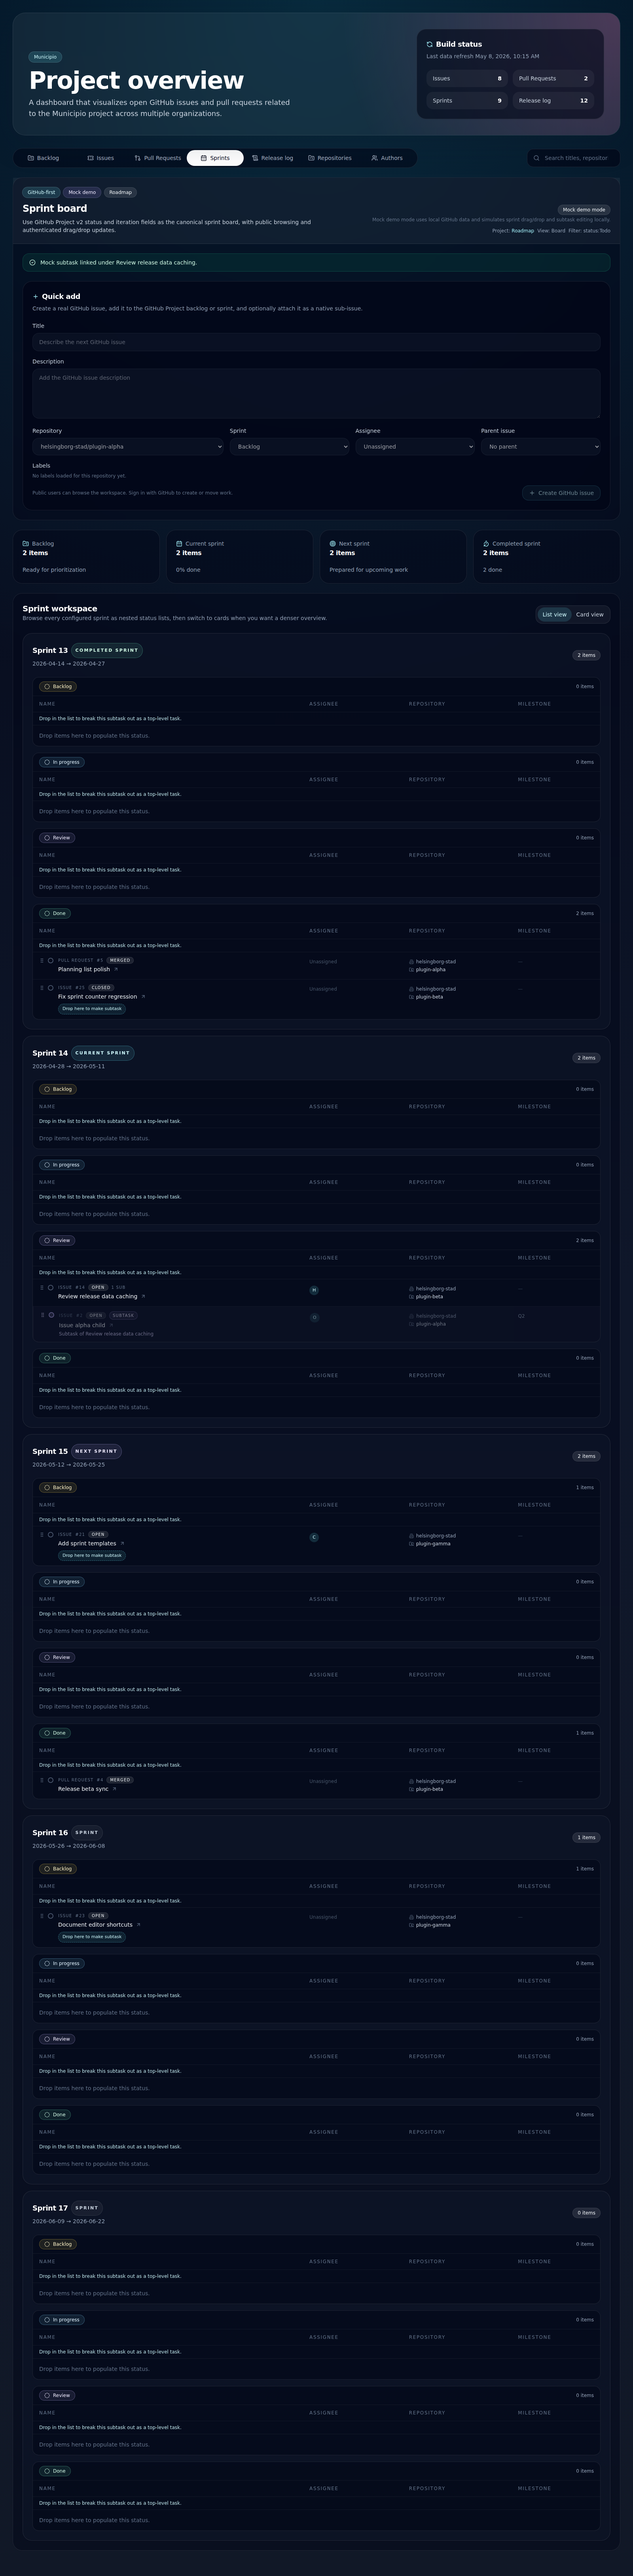
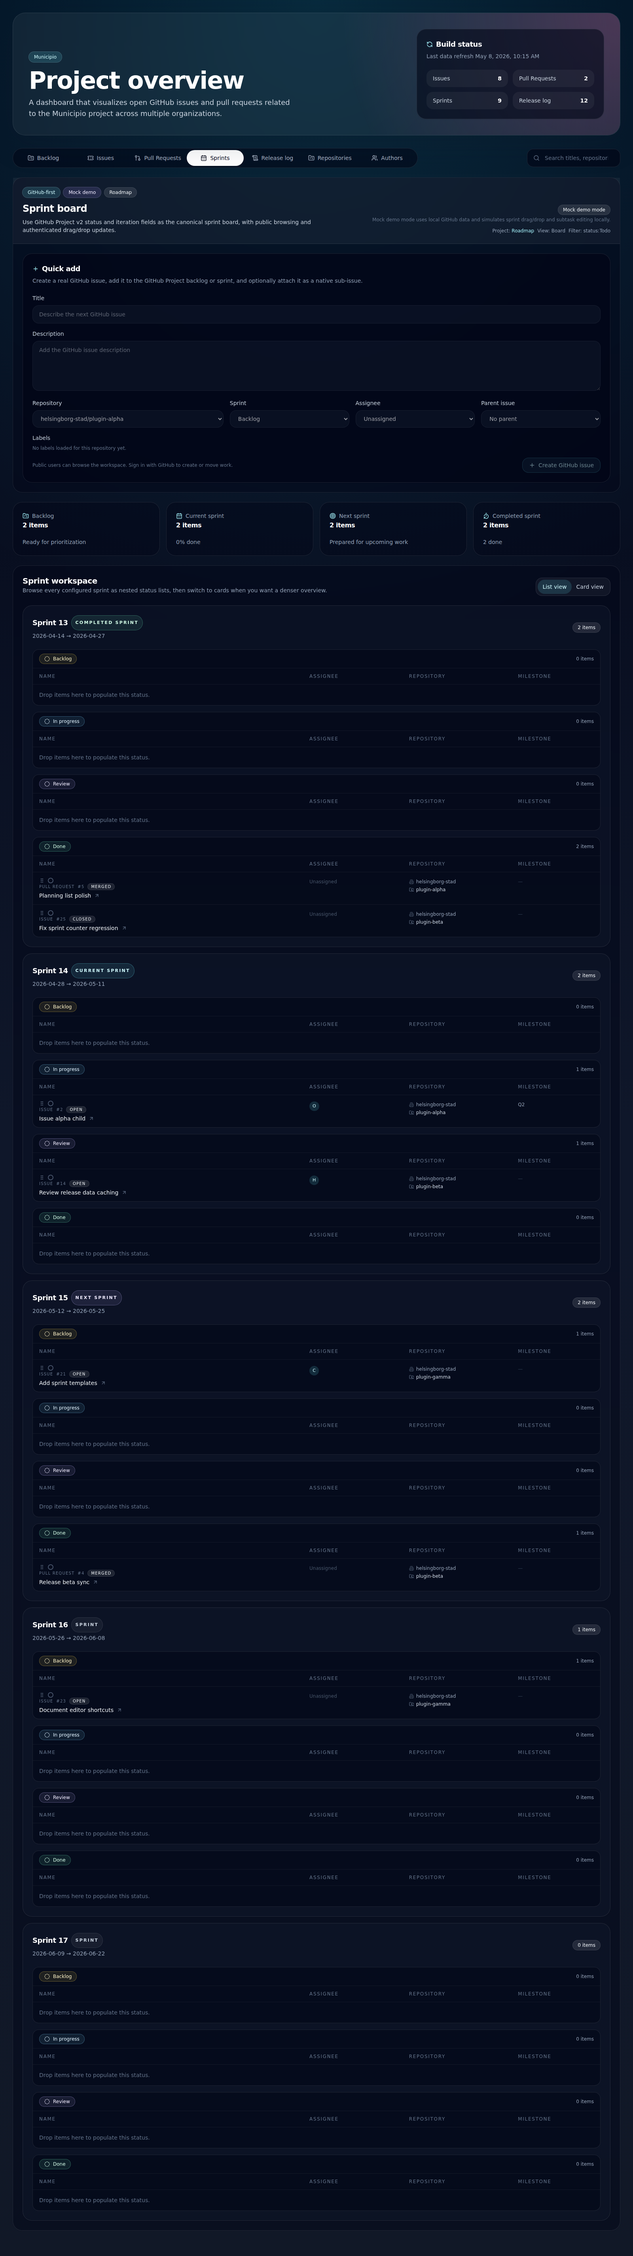
fix(planning): indent sprint subtasks
Agent-Logs-Url: https://github.com/helsingborg-stad/municipio-project-aggregator/sessions/198ca7bd-6277-4bfa-8e82-28aaceb73a7e

diff --git a/src/components/planning/PlanningWorkspace.jsx b/src/components/planning/PlanningWorkspace.jsx
@@ -31,6 +31,20 @@ import {
 } from '@/lib/planning';
 
 const sprintListGridClassName = 'grid grid-cols-[minmax(0,2.8fr)_minmax(7rem,1fr)_minmax(10rem,1.1fr)_minmax(8rem,0.8fr)] gap-3';
+const maxSprintListIndentDepth = 3;
+const sprintListIndentPerLevelRem = 1.5;
+const sprintListConnectorVerticalInsetRem = 0.5;
+const sprintListConnectorBranchTopRem = 1.25;
+const sprintListConnectorHorizontalOffsetRem = sprintListIndentPerLevelRem / 2;
+const sprintListConnectorArmLengthRem = sprintListIndentPerLevelRem - sprintListConnectorHorizontalOffsetRem;
+const sprintListConnectorColorClassName = 'bg-violet-300/35';
+const sprintListConnectorStyles = {
+  left: `${sprintListConnectorHorizontalOffsetRem}rem`,
+  top: '0rem',
+  branchTop: `${sprintListConnectorBranchTopRem}rem`,
+  width: `${sprintListConnectorArmLengthRem}rem`,
+  bottom: `${sprintListConnectorVerticalInsetRem}rem`,
+};
 
 /**
  * Renders the GitHub-first backlog and sprint planning workspace.
@@ -1172,6 +1186,7 @@ function SprintNestedListRow({
     ? 'border-l-2 border-violet-300/40 bg-violet-300/[0.06]'
     : '';
   const currentParentTitle = currentParent?.title || 'parent task';
+  const nestedOffset = depth > 0 ? `${Math.min(depth, maxSprintListIndentDepth) * sprintListIndentPerLevelRem}rem` : '0rem';
 
   return (
     <>
@@ -1187,46 +1202,70 @@ function SprintNestedListRow({
         <div className={`${sprintListGridClassName} px-4 py-3`}>
           <div className="min-w-0">
             <div className="flex min-w-0 items-start gap-3">
-              <div className={`flex items-center gap-2 pt-0.5 ${depth > 0 ? 'text-violet-200' : 'text-slate-500'}`}>
-                <span aria-label="Drag handle">
-                  <GripVertical className="h-3.5 w-3.5" />
-                </span>
-                <div className={`h-3.5 w-3.5 rounded-full border-2 ${depth > 0 ? 'border-violet-300/80 bg-violet-300/20' : 'border-slate-500/70'}`} />
-              </div>
               <div className="min-w-0 flex-1">
-                <div className="flex min-w-0 flex-wrap items-center gap-2 text-[10px] uppercase tracking-[0.12em] text-slate-500">
-                  <span>{item.type}</span>
-                  {item.number ? <span>#{item.number}</span> : null}
-                  <Badge variant="secondary" className="shrink-0 px-2 py-0 text-[10px]">{itemState}</Badge>
-                  {depth > 0 ? <span className="rounded-full border border-violet-300/30 bg-violet-300/10 px-2 py-0.5 text-[10px] text-violet-100" role="status" aria-label="This is a subtask">Subtask</span> : null}
-                  {item.subIssues?.total ? <span>{item.subIssues.total} sub</span> : null}
-                </div>
-                <div className="mt-1 flex min-w-0 items-center gap-2">
-                  <span className="truncate text-sm font-medium text-slate-100 transition-colors group-hover:text-white">{item.title}</span>
-                  {item.url ? (
-                    <a href={item.url} target="_blank" rel="noreferrer" className="shrink-0 text-slate-500 transition-colors hover:text-cyan-300">
-                      <ArrowUpRight className="h-3.5 w-3.5" />
-                    </a>
+                <div className="relative min-w-0" style={{ paddingLeft: nestedOffset }}>
+                  {depth > 0 ? (
+                    <>
+                      <span
+                        aria-hidden="true"
+                        className={`absolute w-px ${sprintListConnectorColorClassName}`}
+                        style={{ left: sprintListConnectorStyles.left, top: sprintListConnectorStyles.top, bottom: sprintListConnectorStyles.bottom }}
+                      />
+                      <span
+                        aria-hidden="true"
+                        className={`absolute h-px ${sprintListConnectorColorClassName}`}
+                        style={{
+                          left: sprintListConnectorStyles.left,
+                          top: sprintListConnectorStyles.branchTop,
+                          width: sprintListConnectorStyles.width,
+                        }}
+                      />
+                    </>
                   ) : null}
-                </div>
-                {depth > 0 ? <span className="mt-1 block text-xs text-violet-200/90" aria-label={`Subtask of ${currentParentTitle}`}>Subtask of {currentParentTitle}</span> : null}
-                {canAcceptSubtaskDrop ? (
-                  <div
-                    className="mt-2 inline-flex items-center rounded-full border border-dashed border-cyan-300/40 bg-cyan-300/10 px-2.5 py-1 text-[11px] text-cyan-100"
-                    onDragOver={(event) => {
-                      event.preventDefault();
-                      event.stopPropagation();
-                    }}
-                    onDrop={(event) => {
-                      event.preventDefault();
-                      event.stopPropagation();
-                      onSubtaskAssignment(dragState.item, item, bucket);
-                    }}
-                    aria-label={`Drop ${draggedItem?.title || 'task'} under ${item.title} as subtask`}
-                  >
-                    Drop here to make subtask
+                  <div className="flex min-w-0 items-start gap-3">
+                    <div className={`flex items-center gap-2 pt-0.5 ${depth > 0 ? 'text-violet-200' : 'text-slate-500'}`}>
+                      <span aria-label="Drag handle">
+                        <GripVertical className="h-3.5 w-3.5" />
+                      </span>
+                      <div className={`h-3.5 w-3.5 rounded-full border-2 ${depth > 0 ? 'border-violet-300/80 bg-violet-300/20' : 'border-slate-500/70'}`} />
+                    </div>
+                    <div className="min-w-0 flex-1">
+                      <div className="flex min-w-0 flex-wrap items-center gap-2 text-[10px] uppercase tracking-[0.12em] text-slate-500">
+                        <span>{item.type}</span>
+                        {item.number ? <span>#{item.number}</span> : null}
+                        <Badge variant="secondary" className="shrink-0 px-2 py-0 text-[10px]">{itemState}</Badge>
+                        {depth > 0 ? <span className="rounded-full border border-violet-300/30 bg-violet-300/10 px-2 py-0.5 text-[10px] text-violet-100" role="status" aria-label="This is a subtask">Subtask</span> : null}
+                        {item.subIssues?.total ? <span>{item.subIssues.total} sub</span> : null}
+                      </div>
+                      <div className="mt-1 flex min-w-0 items-center gap-2">
+                        <span className="truncate text-sm font-medium text-slate-100 transition-colors group-hover:text-white">{item.title}</span>
+                        {item.url ? (
+                          <a href={item.url} target="_blank" rel="noreferrer" className="shrink-0 text-slate-500 transition-colors hover:text-cyan-300">
+                            <ArrowUpRight className="h-3.5 w-3.5" />
+                          </a>
+                        ) : null}
+                      </div>
+                      {depth > 0 ? <span className="mt-1 block text-xs text-violet-200/90" aria-label={`Subtask of ${currentParentTitle}`}>Subtask of {currentParentTitle}</span> : null}
+                      {canAcceptSubtaskDrop ? (
+                        <div
+                          className="mt-2 inline-flex items-center rounded-full border border-dashed border-cyan-300/40 bg-cyan-300/10 px-2.5 py-1 text-[11px] text-cyan-100"
+                          onDragOver={(event) => {
+                            event.preventDefault();
+                            event.stopPropagation();
+                          }}
+                          onDrop={(event) => {
+                            event.preventDefault();
+                            event.stopPropagation();
+                            onSubtaskAssignment(dragState.item, item, bucket);
+                          }}
+                          aria-label={`Drop ${draggedItem?.title || 'task'} under ${item.title} as subtask`}
+                        >
+                          Drop here to make subtask
+                        </div>
+                      ) : null}
+                    </div>
                   </div>
-                ) : null}
+                </div>
               </div>
             </div>
           </div>
